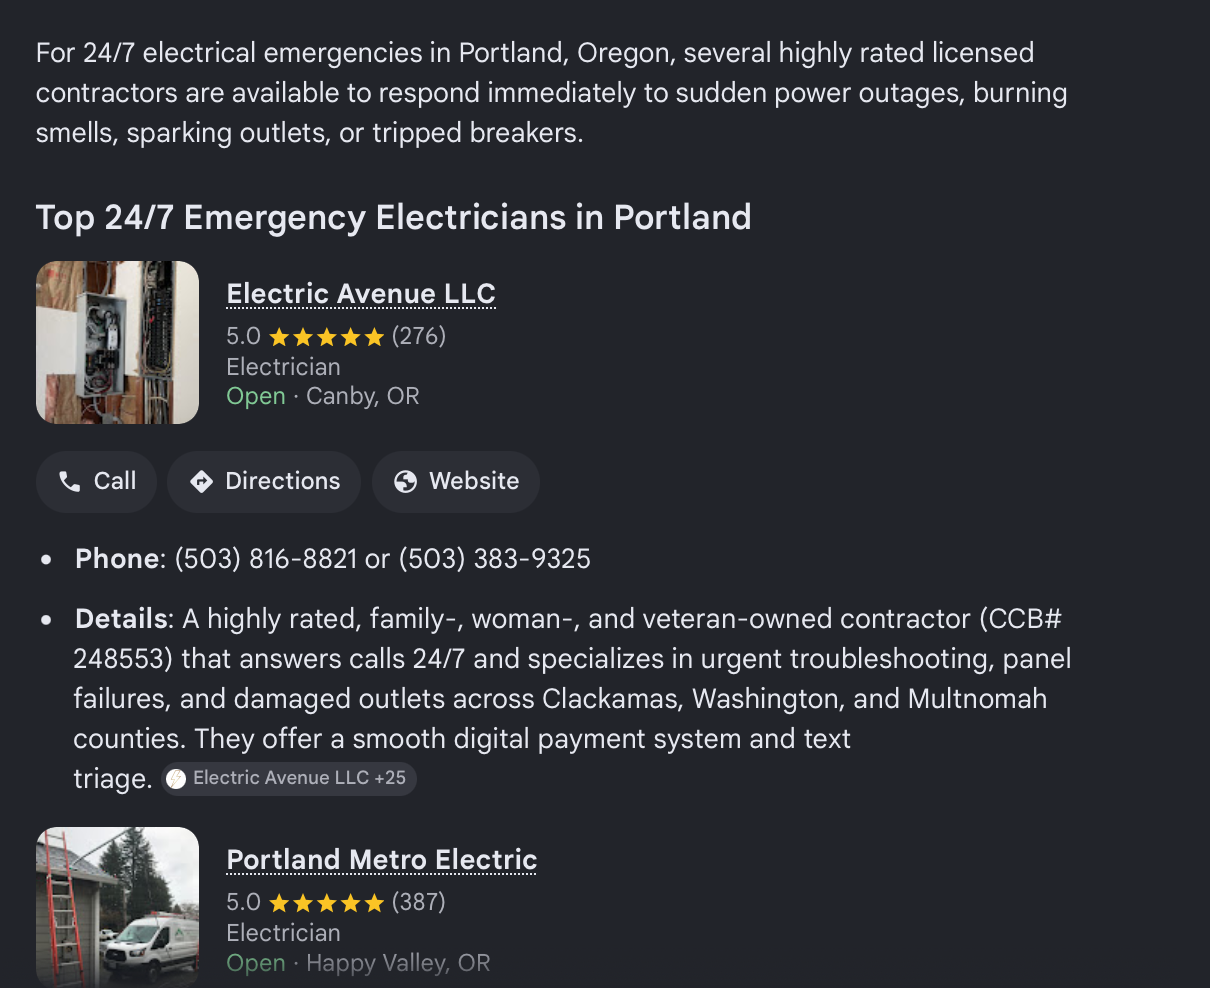
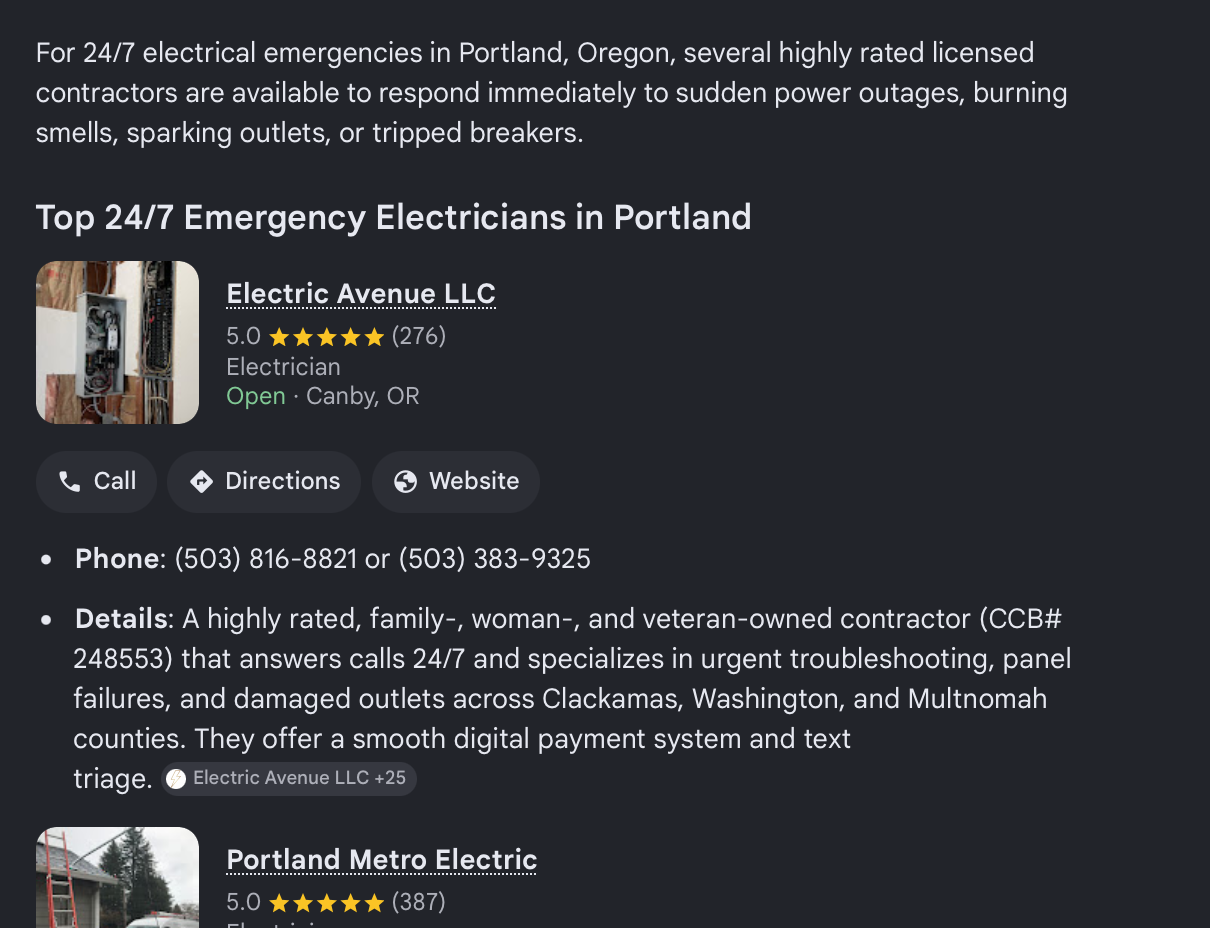
Add Essance Shopify proof, #1 AI-results row, and 187k impressions

Changed region(s): [[0.0306, 0.1875, 0.8868, 1.0], [0.0306, 0.0312, 0.8868, 0.1562]]

diff --git a/index.html b/index.html
@@ -50,10 +50,17 @@
   h2::after{content:"";flex:1;height:1px;background:var(--hair);}
   section{padding-bottom:2.8rem;}
 
+  /* proof: two clients, side by side */
+  .proofs{display:grid;grid-template-columns:1fr;gap:2.2rem;}
+  .proof-h{font-size:.72rem;font-family:var(--mono);letter-spacing:.11em;text-transform:uppercase;
+    color:var(--acc-deep);margin-bottom:.55rem;}
+  .proof-h b{color:var(--ink);font-weight:600;}
+
   /* receipt */
   .frame{background:var(--surface);border:1px solid var(--hair);border-radius:10px;overflow:hidden;
     box-shadow:0 1px 2px rgb(22 24 28 / .05), 0 18px 48px -30px rgb(22 24 28 / .25);}
   .frame img{display:block;width:100%;height:auto;}
+  .proofs .frame img{width:100%;height:auto;}
   .frame .slot{display:grid;place-items:center;text-align:center;gap:.35rem;min-height:300px;padding:2rem;
     background:repeating-linear-gradient(45deg,transparent,transparent 12px,var(--acc-wash) 12px,var(--acc-wash) 24px);}
   .frame .slot b{font-size:.9rem;color:var(--ink);}
@@ -114,24 +121,36 @@
         <a href="https://linkedin.com/in/Maxwell-may" target="_blank" rel="noopener">linkedin.com/in/Maxwell-may</a>
       </div>
     </div>
-    <p class="intro">I run organic search end to end for two brands, as sole consultant. This page is just the numbers: every figure below traces to Google Search Console, GA4, or Ahrefs, and I will walk through the raw reporting on request.</p>
+    <p class="intro">I run organic search end to end for two brands: Electric Avenue PNW, a licensed electrical contractor, and Essance Skincare, a DTC brand on Shopify. This page is just the numbers: every figure below traces to Google Search Console, GA4, or Ahrefs, and I will walk through the raw reporting on request.</p>
   </header>
 
   <section>
-    <h2>The headline result</h2>
-    <figure>
-      <div class="frame">
-        <img src="ai-overview.png" alt="Google AI results for 'emergency electrician portland oregon' listing Electric Avenue LLC first among top 24/7 emergency electricians" onerror="this.style.display='none';this.nextElementSibling.style.display='grid';">
-        <div class="slot" style="display:none">
-          <b>ai-overview.png goes here</b>
-          <span>drop the screenshot into this folder</span>
+    <h2>Proof</h2>
+    <div class="proofs">
+
+      <figure>
+        <div class="proof-h"><b>Electric Avenue PNW</b> · AI search</div>
+        <div class="frame">
+          <img src="ai-overview.png" alt="Google AI results for 'emergency electrician portland oregon' listing Electric Avenue LLC first among top 24/7 emergency electricians">
         </div>
-      </div>
-      <figcaption class="cap">
-        <span>Google search: "emergency electrician portland oregon" · AI results, August 2026</span>
-        <span><b>Electric Avenue LLC</b> listed first</span>
-      </figcaption>
-    </figure>
+        <figcaption class="cap">
+          <span>"emergency electrician portland oregon" · Aug 2026</span>
+          <span><b>Listed first</b></span>
+        </figcaption>
+      </figure>
+
+      <figure>
+        <div class="proof-h"><b>Essance Skincare</b> · Shopify rebuild</div>
+        <div class="frame">
+          <img src="essance-store.png" alt="Essance Skincare best sellers collection page showing product cards with images, ratings, descriptions and prices">
+        </div>
+        <figcaption class="cap">
+          <span>essanceskincare.com · collection page</span>
+          <span><b>Storefront rebuilt</b></span>
+        </figcaption>
+      </figure>
+
+    </div>
   </section>
 
   <section>
@@ -180,6 +199,11 @@
           <td>Site health score after technical cleanup</td>
           <td><span class="brandtag">Essance Skincare</span> · <span class="src">Ahrefs</span></td>
           <td><span class="num">33 → 93</span></td>
+        </tr>
+        <tr>
+          <td>Monthly search impressions</td>
+          <td><span class="brandtag">Essance Skincare</span> · <span class="src">GSC</span></td>
+          <td><span class="num">187k</span></td>
         </tr>
         <tr>
           <td>Clicks / impressions since taking over search in June</td>
